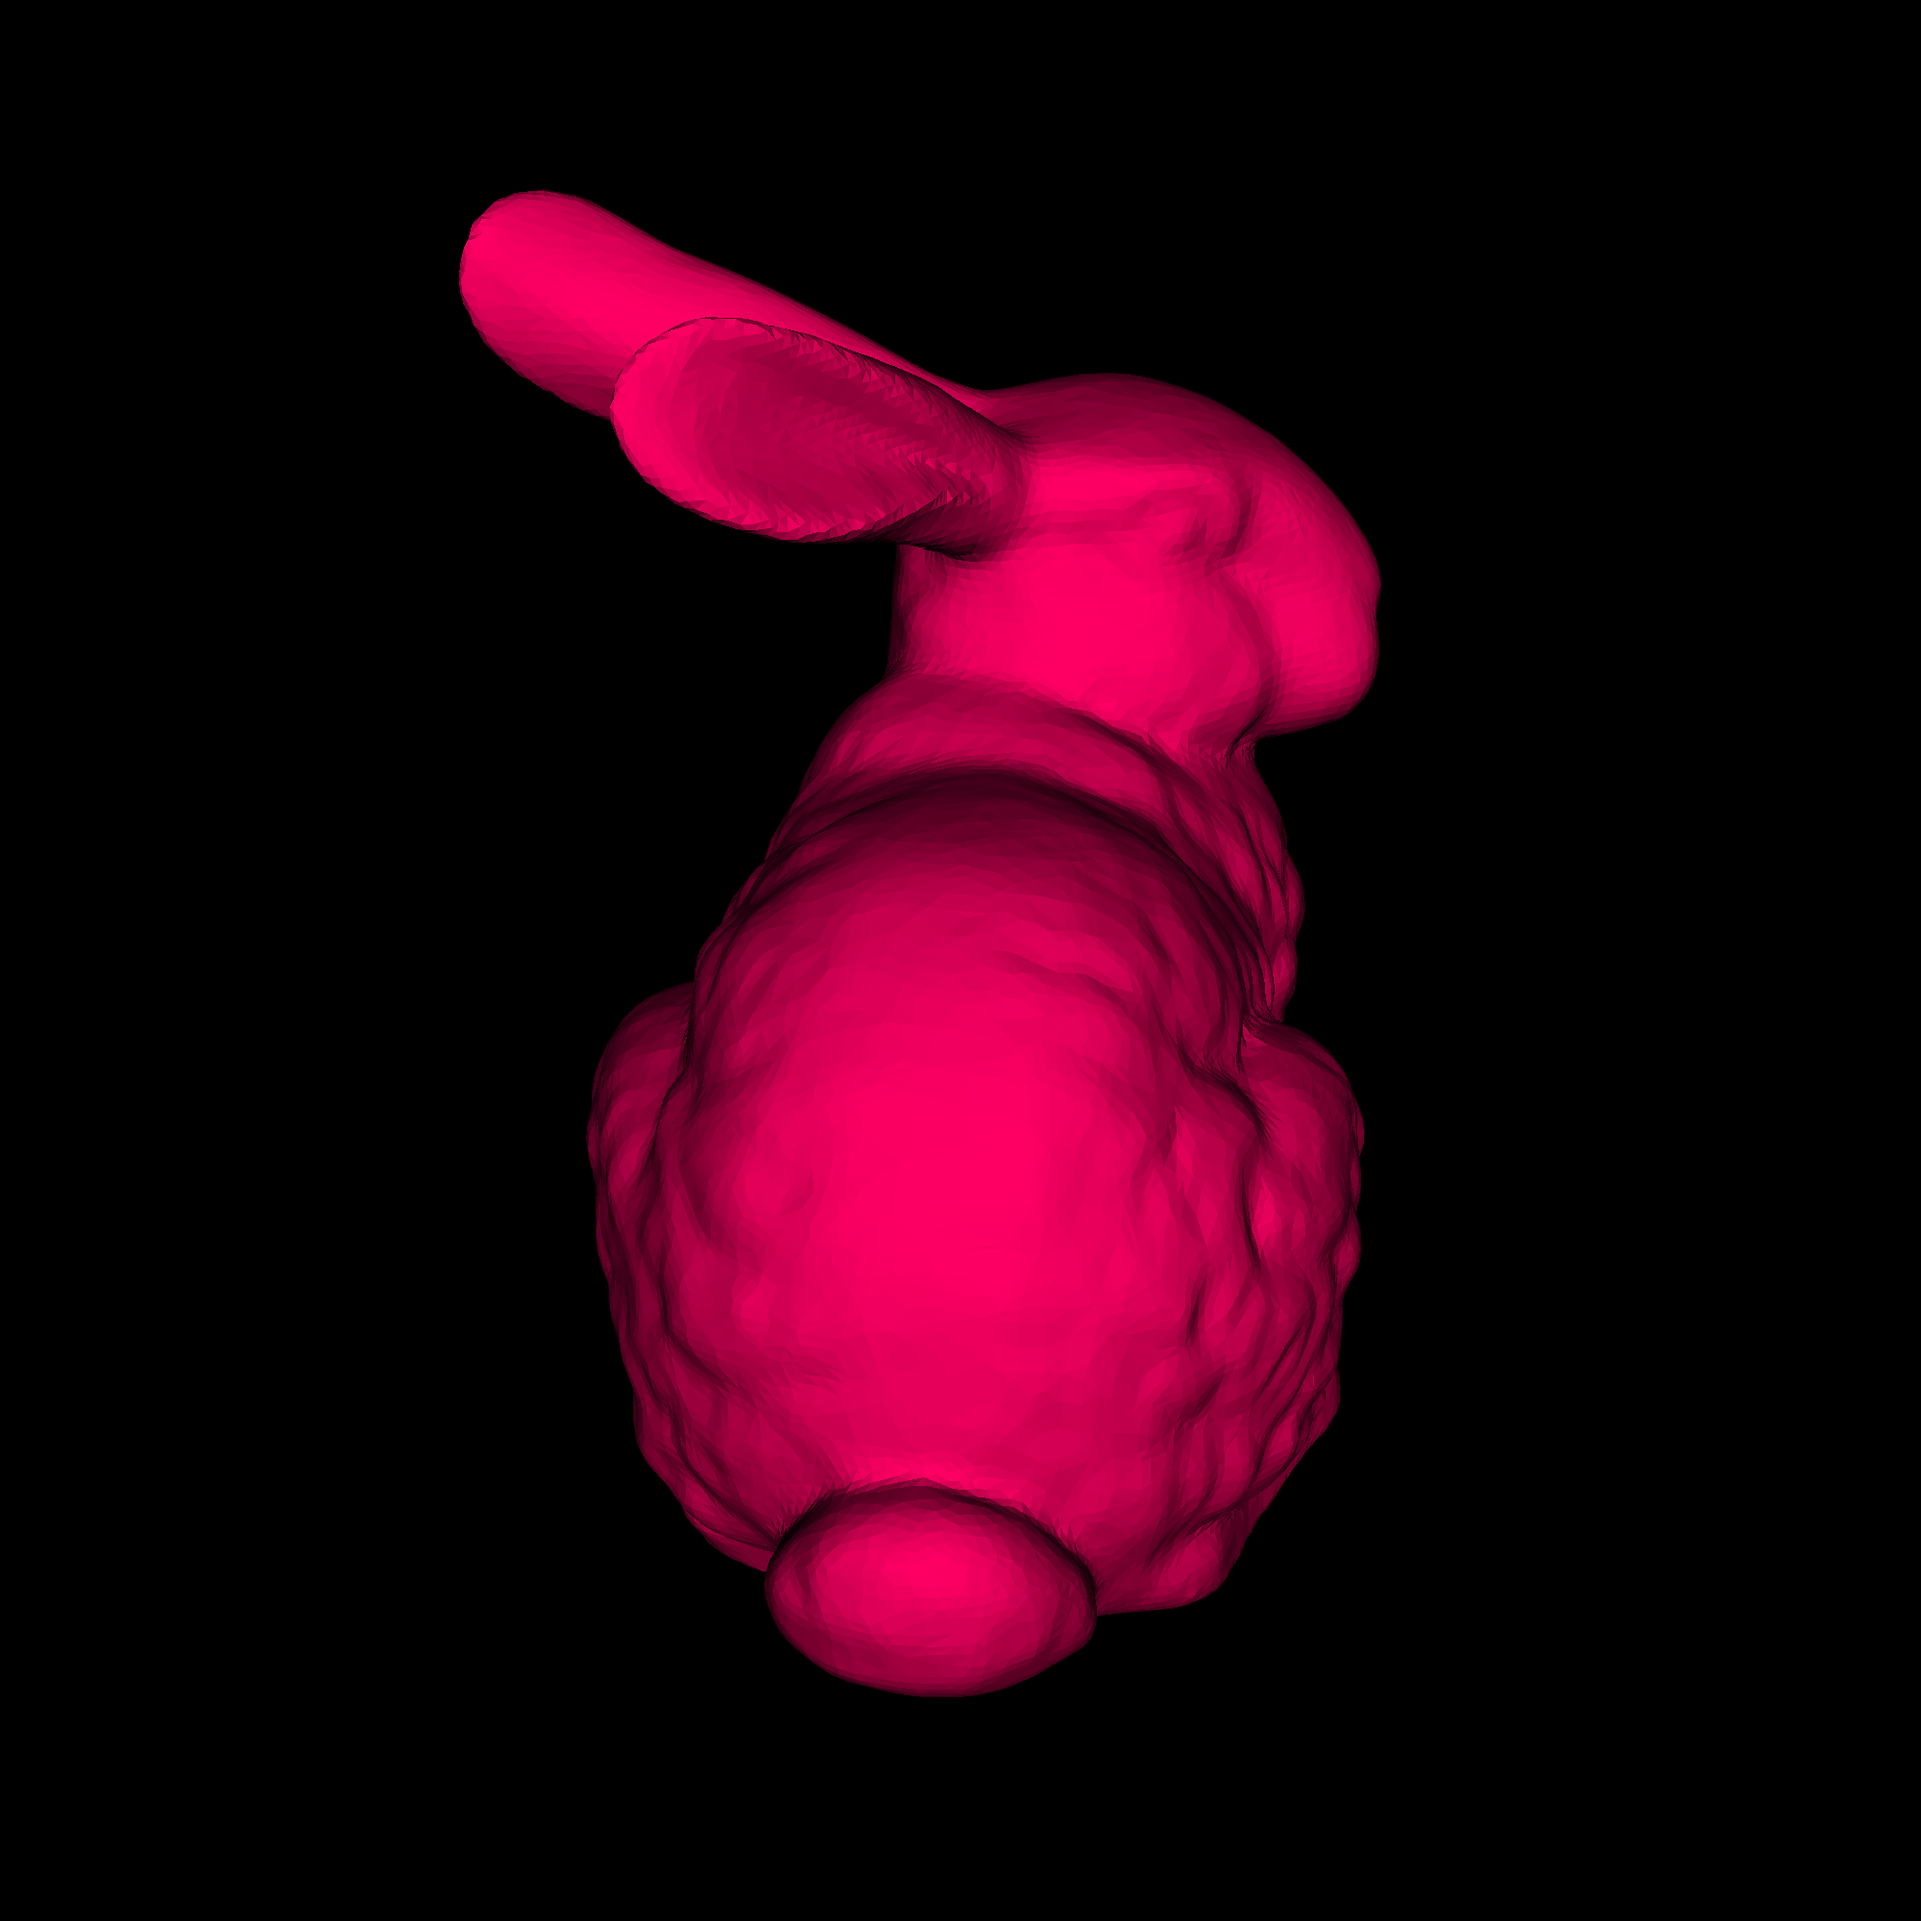
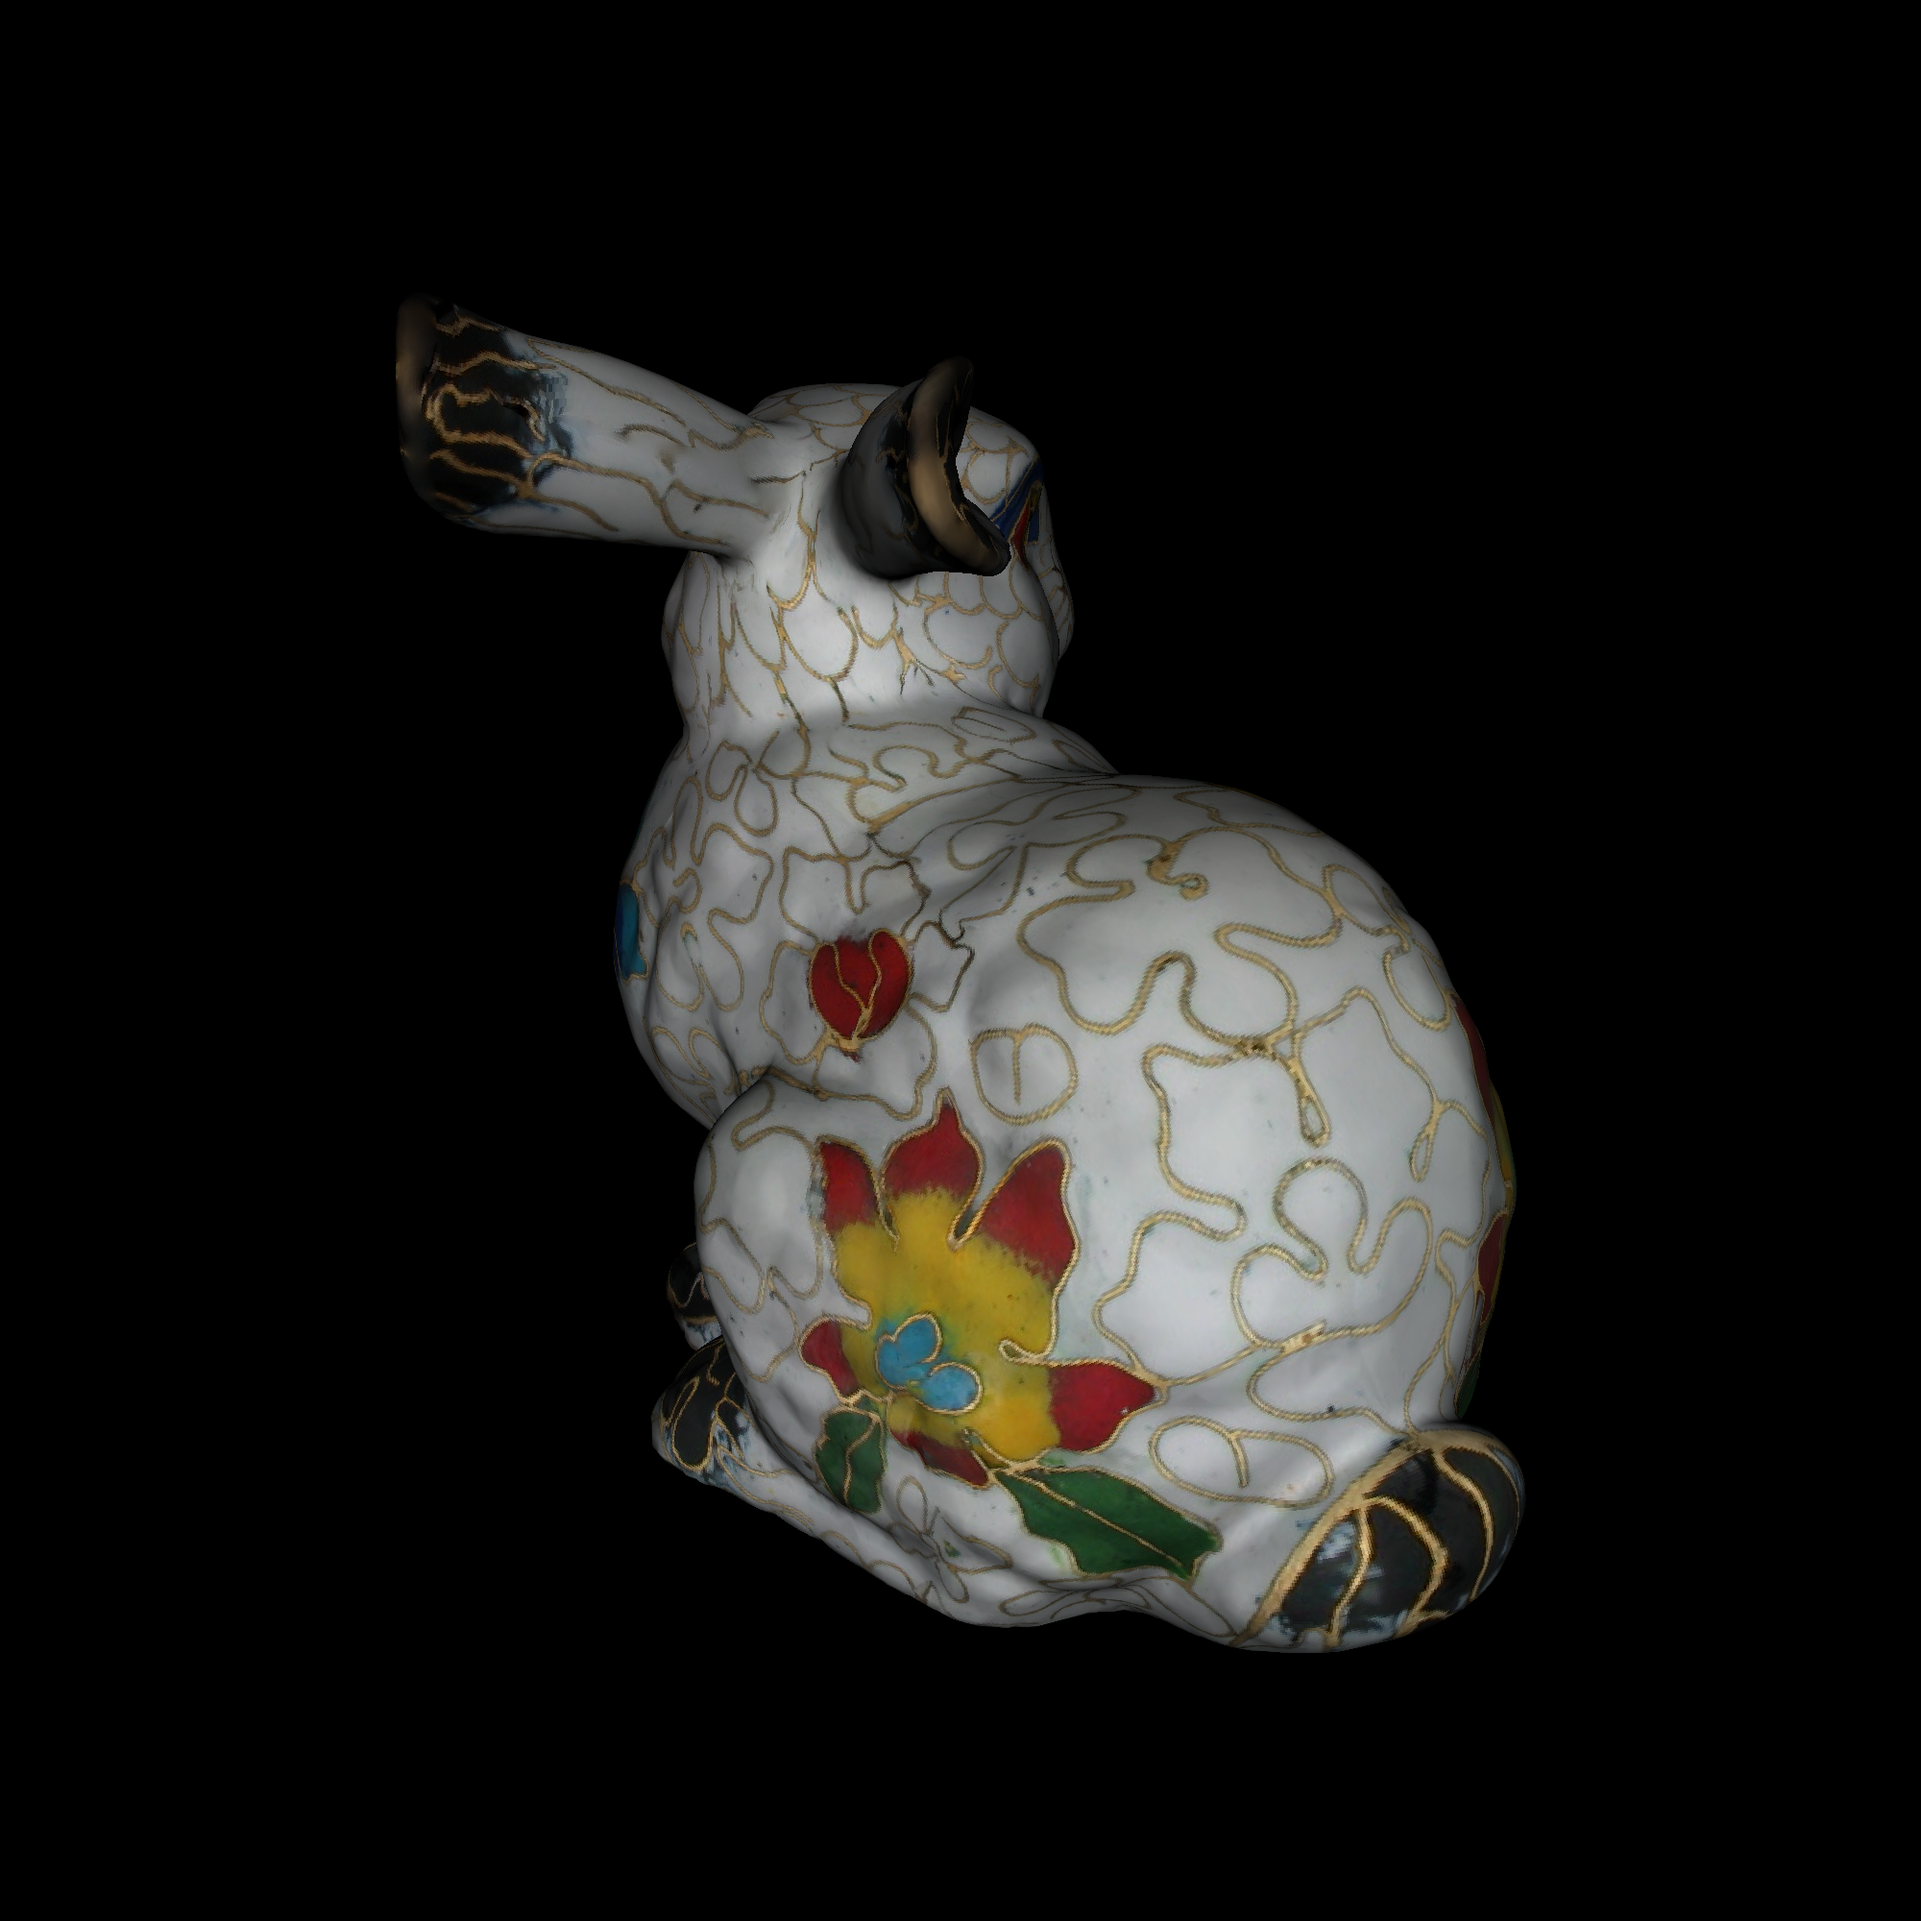
final

Changed region(s): [[0.186, 0.093, 0.806, 0.899]]

diff --git a/lab4_kg/main.py b/lab4_kg/main.py
@@ -1,0 +1,187 @@
+import numpy as np
+import math
+from PIL import Image, ImageOps
+
+model = open("model.obj")
+texture_img = Image.open("bunny-atlas.jpg")
+texture_img = ImageOps.flip(texture_img)
+
+W_T, H_T = texture_img.size
+texture_array = np.array(texture_img)
+
+def barac(x, y, x0, y0, x1, y1, x2, y2):
+    lambda0 = ((x - x2) * (y1 - y2) - (x1 - x2) * (y - y2)) / ((x0 - x2) * (y1 - y2) - (x1 - x2) * (y0 - y2))
+    lambda1 = ((x0 - x2) * (y - y2) - (x - x2) * (y0 - y2)) / ((x0 - x2) * (y1 - y2) - (x1 - x2) * (y0 - y2))
+    lambda2 = 1.0 - lambda0 - lambda1
+    return lambda0, lambda1, lambda2
+
+def triangle(x0, y0, z0, x1, y1, z1, x2, y2, z2, img, z_buff, I0, I1, I2, vt0, vt1, vt2):
+    xmin = int(max(0, min(x0, x1, x2)))
+    ymin = int(max(0, min(y0, y1, y2)))
+    xmax = int(min(1999, max(x0, x1, x2) + 1))
+    ymax = int(min(1999, max(y0, y1, y2) + 1))
+
+    for i in range(xmin, xmax):
+        for j in range(ymin, ymax):
+            lambda0, lambda1, lambda2 = barac(i, j, x0, y0, x1, y1, x2, y2)
+            if lambda0 >= 0 and lambda1 >= 0 and lambda2 >= 0:
+                z = lambda0 * z0 + lambda1 * z1 + lambda2 * z2
+                if z < z_buff[j, i]:
+                    z_buff[j, i] = z
+                    u = lambda0 * vt0[0] + lambda1 * vt1[0] + lambda2 * vt2[0]
+                    v = lambda0 * vt0[1] + lambda1 * vt1[1] + lambda2 * vt2[1]
+                    tex_x = round(W_T * u)
+                    tex_y = round(H_T * v)
+                    I =  min(max(-1,(lambda0*I0 + lambda1*I1 + lambda2*I2)),0)
+                    img[j, i] = -I*texture_array[tex_y, tex_x]
+                    
+                    #img[j, i] = I
+    return img
+
+def project_vertex(vertex, ax, ay, u0, v0, t_z):
+    x, y, z = vertex
+    z = z + t_z
+    return [
+        (ax * x / z) + u0,  
+        (ay * y / z) + v0, 
+        z
+    ]
+
+def get_rotation_matrix(a, b, g):
+    R1 = np.array([
+        [1, 0, 0],
+        [0, math.cos(a), math.sin(a)],
+        [0, -math.sin(a), math.cos(a)]
+    ])
+    
+    R2 = np.array([
+        [math.cos(b), 0, math.sin(b)],
+        [0, 1, 0],
+        [-math.sin(b), 0, math.cos(b)]
+    ])  
+
+    R3 = np.array([
+        [math.cos(g), math.sin(g), 0],
+        [-math.sin(g), math.cos(g), 0],
+        [0, 0, 1]
+    ])
+    
+    return np.dot(R1, np.dot(R2, R3))
+
+def transform_vertices(vertices, a, b, g, t_x, t_y, t_z):
+    R = get_rotation_matrix(a, b, g)
+    t = np.array([t_x, t_y, t_z])
+    
+    trans = []
+    for x, y, z in vertices:
+        vertex = np.array([x, y, z])
+        rotated_vertex = np.dot(R, vertex)  
+        x_rot, y_rot, z_rot = rotated_vertex
+        
+        trans.append([
+            x_rot + t_x,
+            y_rot + t_y,
+            z_rot + t_z
+        ])
+    
+    return trans
+
+V = []
+F = []
+FT = [] #texture
+VT=[]
+for line in model:
+    s = line.split()
+    if s[0] == "v":    
+        V.append([float(s[1]), float(s[2]), float(s[3])])
+    if s[0] == 'f':
+        F.append([int(s[1].split('/')[0]), int(s[2].split('/')[0]), int(s[3].split('/')[0])])
+    if s[0] == 'f':
+        FT.append([int(s[1].split('/')[1]), int(s[2].split('/')[1]), int(s[3].split('/')[1])])
+    if s[0]=="vt":
+        VT.append([float(s[1]), float(s[2])])
+
+#print(VT)
+
+
+
+a = math.radians(20) 
+b = math.radians(50)  
+g = math.radians(10) 
+
+t_x, t_y, t_z = 0.005, -0.04, 0.2
+
+V_T = transform_vertices(V, a, b, g, t_x, t_y, t_z)
+
+vertex_normals = {}
+
+for face in F:
+
+    v0_idx, v1_idx, v2_idx = face[0]-1, face[1]-1, face[2]-1
+    
+
+    v0 = np.array(V_T[v0_idx])
+    v1 = np.array(V_T[v1_idx])
+    v2 = np.array(V_T[v2_idx])
+    
+    edge1 = v1 - v0
+    edge2 = v2 - v0
+    face_normal = np.cross(edge1, edge2)
+    face_normal = face_normal / np.linalg.norm(face_normal)
+    
+    for idx in [v0_idx, v1_idx, v2_idx]:
+        if idx not in vertex_normals:
+            vertex_normals[idx] = []
+        vertex_normals[idx].append(face_normal)
+
+
+for idx in vertex_normals:
+    normals = vertex_normals[idx]
+    avg_normal = np.mean(normals, axis=0)
+    avg_normal = avg_normal / np.linalg.norm(avg_normal)
+    vertex_normals[idx] = avg_normal
+
+
+ax, ay = 5000, 5000
+u0, v0 = 1000, 1000
+
+img_mat = np.zeros((2000, 2000, 3), dtype=np.uint8)  
+z_buff = np.full((2000, 2000), np.inf, dtype=np.float32) 
+
+l = np.array([0, 0, 1])
+
+for (face,tex)in zip(F,FT):
+    v0_idx, v1_idx, v2_idx = face[0]-1, face[1]-1, face[2]-1
+    vt0_idx, vt1_idx, vt2_idx = tex[0]-1, tex[1]-1, tex[2]-1
+
+    v0_3d = V_T[v0_idx]
+    v1_3d = V_T[v1_idx]
+    v2_3d = V_T[v2_idx]
+    
+    n0 = vertex_normals[v0_idx]
+    n1 = vertex_normals[v1_idx]
+    n2 = vertex_normals[v2_idx]
+    
+    I0 = np.dot(n0, l)
+    I1 = np.dot(n1, l)
+    I2 = np.dot(n2, l)
+    
+    v0_proj = project_vertex(v0_3d, ax, ay, u0, v0, t_z)
+    v1_proj = project_vertex(v1_3d, ax, ay, u0, v0, t_z)
+    v2_proj = project_vertex(v2_3d, ax, ay, u0, v0, t_z)
+
+    vt0= VT[vt0_idx]
+    vt1= VT[vt1_idx]
+    vt2= VT[vt2_idx]
+    
+    triangle(
+        v0_proj[0], v0_proj[1], v0_proj[2],
+        v1_proj[0], v1_proj[1], v1_proj[2],
+        v2_proj[0], v2_proj[1], v2_proj[2],
+        img_mat, z_buff, I0, I1, I2,
+         vt0,vt1,vt2
+    )
+
+img = Image.fromarray(img_mat, mode='RGB')
+img = ImageOps.flip(img)
+img.save('img.png')
